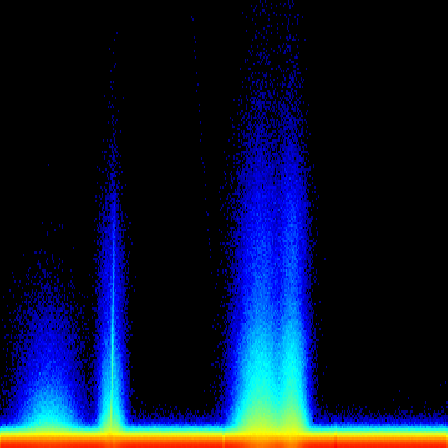
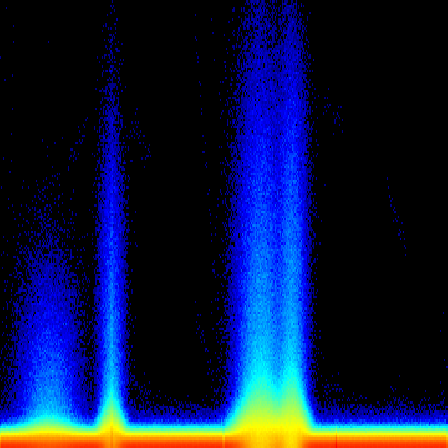
Uporządkowany interfejs, szkielet klasyfikacji.

Changed region(s): [[0.0, 0.0, 1.0, 1.0], [0.1562, 0.3125, 0.1875, 0.3438]]

diff --git a/src/prpdtool/PRPDTool.java b/src/prpdtool/PRPDTool.java
@@ -69,7 +69,7 @@ public class PRPDTool extends JFrame {
     private final String LAST_DIR = "PRPDMonitor.last.dir";
 
     private JPanel left;
-    private JPanel center;
+    private ImagePanel center;
     private JPanel right;
     private JPanel bottom;
     private JPanel paramPanel;
@@ -107,7 +107,6 @@ public class PRPDTool extends JFrame {
     private boolean drawF0 = true;
 
     // Data
-    private ImagePanel prpdPanel;
     private ImagePanel signalPanel;
     private ImagePanel envelopePanel;
 
@@ -235,7 +234,7 @@ public class PRPDTool extends JFrame {
         sinMB.addActionListener(e -> {
             drawF0 = sinMB.isSelected();
             histogram.drawF0(drawF0);
-            prpdPanel.repaint();
+            center.repaint();
         });
         optM.add(sinMB);
         mb.add(optM);
@@ -247,7 +246,7 @@ public class PRPDTool extends JFrame {
         left = new JPanel();
         right = new JPanel();
         bottom = new JPanel();
-        center = new JPanel();
+        center = new ImagePanel(new BufferedImage(640,480,BufferedImage.TYPE_BYTE_GRAY));
 
         splitCenterRight = new JSplitPane(
                 JSplitPane.HORIZONTAL_SPLIT,
@@ -303,11 +302,7 @@ public class PRPDTool extends JFrame {
                     -10.0, 10.0, null
             );
 
-            prpdPanel = new ImagePanel(histogram.getImage());
-            int[] padding = {0,0,0,0}; //histogram.padding();
-            prpdPanel.setPreferredSize(new Dimension(center.getWidth() - padding[0], center.getHeight() - padding[1]));
-            center.add(prpdPanel);
-            center.setBackground(Color.white);
+            center.setImage(histogram.getImage());
             center.revalidate();
 
             envelopePanel = new ImagePanel(envelope.getImage());
@@ -370,15 +365,17 @@ public class PRPDTool extends JFrame {
 
             JPanel classifyPanel = new JPanel(new BorderLayout());
 
-            JPanel modelPanel = new JPanel(new GridLayout(classifiers.length + 1, 2));
-            modelPanel.setBackground(Color.white);
+            JPanel modelPanel = new JPanel(new GridLayout(classifiers.length + 1, 2,3,3));
+            //modelPanel.setBackground(Color.black);
             final Map<Classifier, JLabel> cResults = new HashMap<>();
-            modelPanel.add(new JLabel("Classifier"));
-            modelPanel.add(new JLabel("Result"));
+            modelPanel.add(new JLabel("Classifier",SwingConstants.CENTER));
+            modelPanel.add(new JLabel("Result",SwingConstants.CENTER));
             for (Classifier c : classifiers) {
                 if (c.ok()) {
                     JLabel name = new JLabel(c.name());
+                    name.setBackground(Color.gray);
                     JLabel result = new JLabel("           ");
+                    result.setBackground(Color.gray);
                     modelPanel.add(name);
                     modelPanel.add(result);
                     cResults.put(c, result);
@@ -403,7 +400,7 @@ public class PRPDTool extends JFrame {
                 splitCenterRight.setDividerLocation(0.8);
                 histogram.resize(center.getWidth(), center.getHeight());
                 envelope.resize(bottom.getWidth() / 2, bottom.getHeight());
-                prpdPanel.setPreferredSize(new Dimension(center.getWidth(), center.getHeight()));
+                //prpdPanel.setPreferredSize(new Dimension(center.getWidth(), center.getHeight()));
                 envelopePanel.setPreferredSize(new Dimension(bottom.getWidth() / 2, bottom.getHeight()));
             }
         });
@@ -541,11 +538,11 @@ public class PRPDTool extends JFrame {
                 0.0, lasttu[0], filter
         );
 
-        prpdPanel.setImage(histogram.getImage());
+        center.setImage(histogram.getImage());
         envelopePanel.setImage(envelope.getImage());
         signalPanel.setImage(signal.getImage());
 
-        prpdPanel.repaint();
+        center.repaint();
         envelopePanel.repaint();
         signalPanel.repaint();
 
@@ -579,7 +576,7 @@ public class PRPDTool extends JFrame {
             @Override
             public void pulsesReady(Pulses pulses) {
                 histogram.addPulses(pulses);
-                prpdPanel.repaint();
+                center.repaint();
             }
 
             @Override
@@ -676,7 +673,7 @@ public class PRPDTool extends JFrame {
                     ImageIO.write(prpd4YOLO, "png", new File("prpd4YOLO.png"));
                     Prediction result = classifier.classify(prpd4YOLO);
                     resultView.setBackground(Color.white);
-                    resultView.setText("Detection: " + result.toString());
+                    resultView.setText( result.toString());
                     resultView.repaint();
                     setCursor(Cursor.getDefaultCursor());
                 } catch (Exception ex) {
